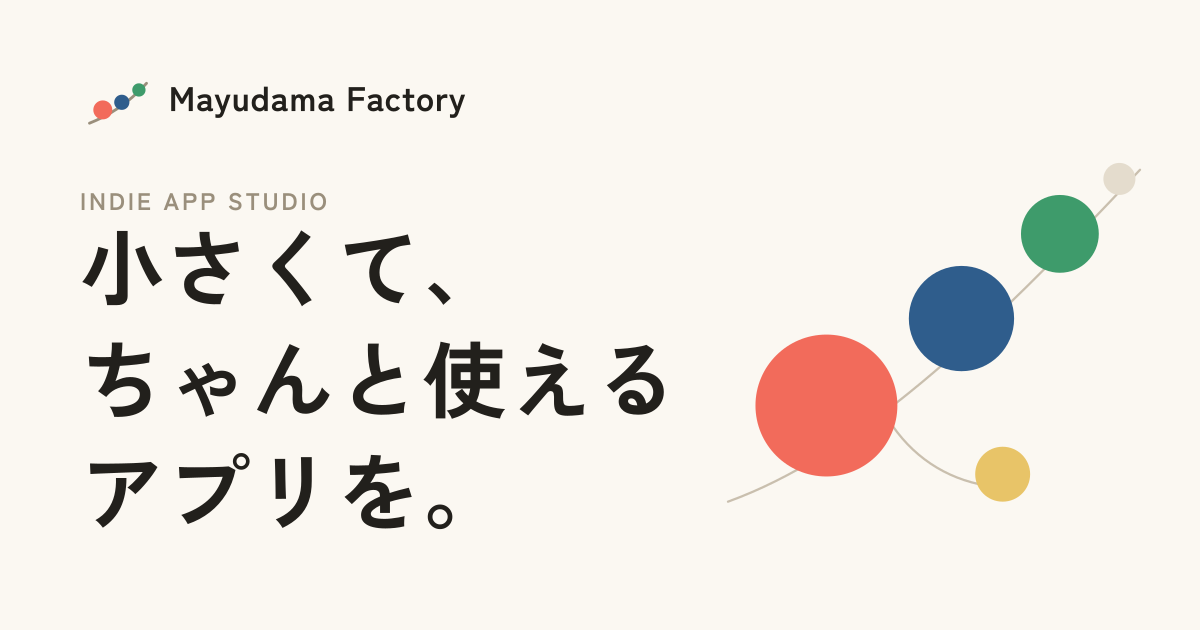
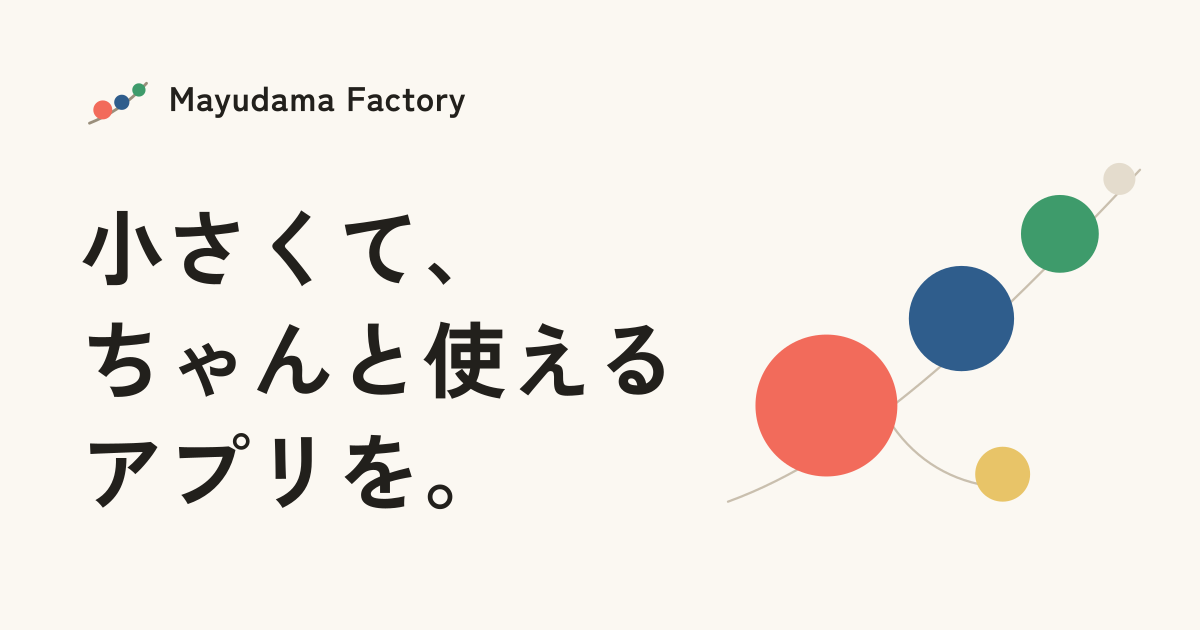
network-sim を 1.1.0 に更新、文章の直し、「個人」の表現を削除、スクリーンイメージに開発中の注記
Claude-Session: https://claude.ai/code/session_01BQHxvHdJABYARFyquyAsAX

Changed region(s): [[0.0617, 0.5127, 0.555, 0.6635], [0.0617, 0.3016, 0.37, 0.4825], [0.0617, 0.6937, 0.4008, 0.8444]]

diff --git a/network-sim/index.html b/network-sim/index.html
@@ -5,29 +5,29 @@
 <meta name="viewport" content="width=device-width, initial-scale=1">
 <meta name="google-adsense-account" content="ca-pub-1105812498519245">
 <title>ネットワーク構築シミュレータ - Cisco 風 CLI で学ぶ L2／L3 の演習ソフト</title>
-<meta name="description" content="新人が L2／L3 のネットワークを Cisco 風の CLI で設定して学ぶ、演習ソフトです。Windows・Mac 向け。インストール不要で、無償で使えます。">
+<meta name="description" content="L2／L3 のネットワークを Cisco 風の CLI で設定して学ぶ、演習ソフトです。Windows・Mac 向け。インストール不要で、無償で使えます。">
 <link rel="canonical" href="https://mayudama.app/network-sim/">
 <meta property="og:type" content="website">
 <meta property="og:site_name" content="Mayudama Factory">
 <meta property="og:locale" content="ja_JP">
 <meta property="og:title" content="ネットワーク構築シミュレータ - Cisco 風 CLI で学ぶ L2／L3 の演習ソフト">
-<meta property="og:description" content="新人が L2／L3 のネットワークを Cisco 風の CLI で設定して学ぶ、演習ソフト。Windows・Mac 向け。インストール不要・無償。">
+<meta property="og:description" content="L2／L3 のネットワークを Cisco 風の CLI で設定して学ぶ、演習ソフト。Windows・Mac 向け。インストール不要・無償。">
 <meta property="og:url" content="https://mayudama.app/network-sim/">
 <meta property="og:image" content="https://mayudama.app/brand/og/ogp-1200x630.png">
 <meta name="twitter:card" content="summary_large_image">
 <meta name="twitter:title" content="ネットワーク構築シミュレータ - Cisco 風 CLI で学ぶ L2／L3 の演習ソフト">
-<meta name="twitter:description" content="新人が L2／L3 のネットワークを Cisco 風の CLI で設定して学ぶ、演習ソフト。Windows・Mac 向け。インストール不要・無償。">
+<meta name="twitter:description" content="L2／L3 のネットワークを Cisco 風の CLI で設定して学ぶ、演習ソフト。Windows・Mac 向け。インストール不要・無償。">
 <meta name="twitter:image" content="https://mayudama.app/brand/og/ogp-1200x630.png">
 <!--
   差し替え手順
   - 画面写真：network-sim/assets/shot-2〜6.jpg（すべて 1600x1000。shot-1 は外した）。「スクリーンイメージ」の <figure>。押すと /assets/lightbox.js のポップアップで開く（data-lightbox を付けた要素の中の a が対象）。
     同じ名前で上書きするか、<img> の src・width・height・alt と <figcaption> を直す。画像を足したら <figure> を 1 つ足す（格子は 2 列・スマホ 1 列）。
     実際のアプリの画面だけを使う（実在しない CLI の出力・画面は載せない）。アイコンは network-sim/icon.png。
-  - 版の表記（版の番号・公開日）は、「ダウンロード」の id="release-info" の 1 か所だけ。新しい版を出したらここだけ直す。
-    ほかに版を書くのは「お知らせ」（その版の公開の記録）と「今後の予定」。お知らせは新しい版の分に差し替える。
+  - 版の表記（版の番号・公開日）は、「ダウンロード」の id="release-info" の 1 か所だけ。新しい版を出したらここを直す（zip の大きさの表記も合わせる）。
+    ほかに版を書くのは「お知らせ」（その版の公開の記録）だけ。お知らせは新しい版を先頭に書き、前の版は 1 行にして下に残す。
   - ダウンロードのリンクは版なしの固定 URL（releases/latest/download/…）のまま。書き換えない。
-  - 「学べること」はテーマの一覧で、課題の番号は書かない（版で番号が変わっても直さずに済む）。課題が増えたら本数とテーマを直す。
-  - 「今後の予定」には日付を書かない。
+  - 「学べること」はテーマの一覧で、課題の番号は書かない（版で番号が変わっても直さずに済む）。課題が増えたら本数（「できること」の課題モードと「学べること」の 2 か所）とテーマを直す。
+  - 「スクリーンイメージ」の見出しの下に、開発中の画面である旨の注記（class="fine"）を置く。画像を差し替えても残す。
 -->
 <link rel="preconnect" href="https://fonts.googleapis.com">
 <link rel="preconnect" href="https://fonts.gstatic.com" crossorigin>
@@ -50,7 +50,7 @@
     <div class="lp-hero-text">
       <img class="ns-icon" src="icon.png" width="64" height="64" alt="ネットワーク構築シミュレータのアイコン">
       <h1 class="tagline">ネットワーク構築<br>シミュレータ</h1>
-      <p class="lead">新人が L2／L3 のネットワークを、Cisco 風の CLI で「組む → 壊れる → 直す」をくり返して学ぶ演習ソフトです。無償で、インストール不要。Windows と Mac で使えます。</p>
+      <p class="lead">L2／L3 のネットワークを、Cisco 風の CLI で「組む → 壊れる → 直す」をくり返して学ぶ演習ソフトです。無償で、インストール不要。Windows と Mac で使えます。</p>
       <ul class="chips platforms" aria-label="対応している端末">
         <li class="chip">Windows</li>
         <li class="chip">Mac</li>
@@ -62,13 +62,18 @@
   <section id="news" class="band-white" aria-labelledby="news-title">
     <div class="wrap lp-section">
       <h2 id="news-title" class="section-title">お知らせ</h2>
-      <p class="body-text"><strong>1.0.0 を公開しました（2026-11-20）</strong>。最初の正式版です。</p>
+      <p class="body-text"><strong>1.1.0 を公開しました（2026-11-22）</strong>。</p>
       <ul class="spec-list">
-        <li>正式名を「ネットワーク構築シミュレータ」に決めました。</li>
-        <li>アプリのアイコンを新しくしました（端末の窓に「SW1#」とカーソル）。</li>
-        <li>画面のデザインを一新しました（機器管理コンソール風）。</li>
-        <li>同梱の README に「前の版から更新するとき」を加えました。</li>
+        <li>リンクの束ね（EtherChannel・LACP）に対応しました。</li>
+        <li>スイッチのスタック（2〜4 台を 1 台として扱う）に対応しました。</li>
+        <li>ルータで GRE トンネルと GRE over IPsec が使えるようになりました。</li>
+        <li>OSPF の SPF の間隔を、新しい Cisco IOS XE の既定にしました。回線が切れたあとの経路の切り替えが速くなります。</li>
+        <li>課題を 3 本（LACP・スタック・GRE）追加して全 20 本になりました。課題の番号を、一覧の並びどおりに付け直しました。</li>
+        <li>自由構成モード：保存は 20 件まで。読み込みの一覧から、名前の変更と削除ができます。「名前を付けて保存」と、閉じるときの未保存の確認を追加しました。</li>
+        <li>画面や操作の使い勝手を改善しました。</li>
+        <li>前の版の保存データと課題の記録は、そのまま使えます。</li>
       </ul>
+      <p class="body-text" style="margin-top:16px">1.0.0（2026-11-20）：最初の正式版</p>
     </div>
   </section>
 
@@ -77,11 +82,11 @@
     <div class="price-grid cols-2">
       <div class="price-card">
         <p class="label">課題モード</p>
-        <p>全 17 本の課題を順に解きます。流れは「組む → 採点 → 障害が起きる → 原因を調べて直す → 再採点」。ヒントは 3 段階で、見ないほど★が多くなります。課題ごとに、ひとりで読み進められる解説が付きます（別ウィンドウでも開けます）。</p>
+        <p>全 20 本の課題を順に解きます。流れは「組む → 採点 → 障害が起きる → 原因を調べて直す → 再採点」。ヒントは 3 段階で、見ないほど★が多くなります。課題ごとに、自分で読み進められる解説が付きます（別ウィンドウでも開けます）。</p>
       </div>
       <div class="price-card">
         <p class="label">自由構成モード</p>
-        <p>機器を自由に置いて、好きな構成を組めます（最大 50 台）。保存と読み込みができます。「届かない原因」を診断するヒント機能も付いています。</p>
+        <p>機器を自由に置いて、好きな構成を組めます（最大 50 台）。保存と読み込みができ、保存した構成は一覧から名前の変更や削除もできます。「届かない原因」を診断するヒント機能も付いています。</p>
       </div>
       <div class="price-card">
         <p class="label">本物らしい機器と CLI</p>
@@ -89,7 +94,7 @@
       </div>
       <div class="price-card">
         <p class="label">中が見える</p>
-        <p>パケットのステップ実行（ヘッダの変化と、機器ごとの判断）、アドレス一覧、キャプチャ。障害試験では、ケーブルを抜く・電源を落とすなどを当て、通信が止まった秒数と理由を測れます。画面はライト・ダーク・システムの設定に合わせます。</p>
+        <p>パケットのステップ実行（ヘッダの変化と、機器ごとの判断）、アドレス一覧、キャプチャ。障害試験では、ケーブルを抜く・電源を落とすなどを当て、通信が止まった秒数を測り、止まった理由を確かめられます。画面はライト・ダーク・システムの設定に合わせます。</p>
       </div>
     </div>
   </section>
@@ -97,6 +102,7 @@
   <section id="screens" class="band-white" aria-labelledby="screens-title">
     <div class="wrap lp-section">
       <h2 id="screens-title" class="section-title">スクリーンイメージ</h2>
+      <p class="fine">掲載している画面は開発中のものです。実際の画面とは異なることがあります。</p>
       <div class="shot-grid" data-lightbox>
         <figure class="shot-fig">
           <a href="assets/shot-2.jpg"><img src="assets/shot-2.jpg" width="1600" height="1000" loading="lazy" alt="最初の課題の画面。スイッチの CLI で show vlan を実行し、VLAN の一覧が表示されている"></a>
@@ -116,7 +122,7 @@
         </figure>
         <figure class="shot-fig">
           <a href="assets/shot-6.jpg"><img src="assets/shot-6.jpg" width="1600" height="1000" loading="lazy" alt="OSPF で拠点をつなぐ課題の画面。障害試験の結果が表示されている"></a>
-          <figcaption>OSPF の課題と障害試験。通信が止まった時間と理由を測ります。</figcaption>
+          <figcaption>OSPF の課題と障害試験。通信が止まった時間を測り、理由を確かめます。</figcaption>
         </figure>
       </div>
     </div>
@@ -124,7 +130,7 @@
 
   <section id="topics" class="wrap lp-section" aria-labelledby="topics-title">
     <h2 id="topics-title" class="section-title">学べること</h2>
-    <p class="body-text">全 17 本の課題で、次のテーマを順に学びます。</p>
+    <p class="body-text">全 20 本の課題で、次のテーマを順に学びます。</p>
     <ul class="chips topics" aria-label="学べるテーマ">
       <li class="chip">VLAN</li>
       <li class="chip">トランク</li>
@@ -139,6 +145,9 @@
       <li class="chip">BGP</li>
       <li class="chip">管理アクセス</li>
       <li class="chip">ゾーンベース FW</li>
+      <li class="chip">LACP</li>
+      <li class="chip">スタック</li>
+      <li class="chip">GRE・IPsec</li>
       <li class="chip">総仕上げ 2 本</li>
     </ul>
     <p class="body-text" style="margin-top:16px">総仕上げの 2 本は、要件定義書を読み、機器を足しながら 4 拠点のネットワークを一から作ります。</p>
@@ -163,7 +172,7 @@
   <section id="audience" class="wrap lp-section" aria-labelledby="audience-title">
     <h2 id="audience-title" class="section-title">対象の人</h2>
     <ul class="spec-list">
-      <li>ネットワークの仕事に就いたばかりの新人、L2／L3 を手を動かして学びたい人</li>
+      <li>L2／L3 を手を動かして学びたい人</li>
       <li>社内研修の教材として使いたい人（会社の研修での利用も無償です）</li>
     </ul>
   </section>
@@ -174,14 +183,14 @@
       <div class="dl-buttons">
         <div class="dl-item">
           <a class="btn" href="https://github.com/mayudama-factory/network-sim-dist/releases/latest/download/network-sim-windows.zip">Windows 版をダウンロード</a>
-          <p class="dl-size">約 14 MB</p>
+          <p class="dl-size">約 15 MB</p>
         </div>
         <div class="dl-item">
           <a class="btn" href="https://github.com/mayudama-factory/network-sim-dist/releases/latest/download/network-sim-macos.zip">Mac 版をダウンロード</a>
-          <p class="dl-size">約 22 MB</p>
+          <p class="dl-size">約 23 MB</p>
         </div>
       </div>
-      <p class="dl-note" id="release-info">版 1.0.0（2026-11-20 公開）</p>
+      <p class="dl-note" id="release-info">版 1.1.0（2026-11-22 公開）</p>
       <p class="dl-note"><a href="https://github.com/mayudama-factory/network-sim-dist/releases">リリース一覧</a></p>
     </div>
   </section>
@@ -211,18 +220,6 @@
         <li>Windows：記録のファイル（progress.json・layout.json・saves・course_saves）を新しいフォルダへコピーするか、前の版の上に上書きして展開します。詳しくは同梱の README.txt を見てください。</li>
       </ul>
     </div>
-  </section>
-
-  <section id="roadmap" class="wrap lp-section" aria-labelledby="roadmap-title">
-    <h2 id="roadmap-title" class="section-title">今後の予定</h2>
-    <p class="body-text">次の版（1.1.0）で、次の内容を予定しています。時期は未定です。</p>
-    <ul class="spec-list">
-      <li>LACP（EtherChannel）</li>
-      <li>スイッチのスタッキング</li>
-      <li>拠点間 VPN（GRE・GRE over IPsec）</li>
-      <li>OSPF の改良</li>
-      <li>使い勝手の改善</li>
-    </ul>
   </section>
 
   <section id="terms" class="wrap lp-section" aria-labelledby="terms-title">

diff --git a/index.html b/index.html
@@ -5,13 +5,13 @@
 <meta name="viewport" content="width=device-width, initial-scale=1">
 <meta name="google-adsense-account" content="ca-pub-1105812498519245">
 <title>Mayudama Factory</title>
-<meta name="description" content="Mayudama Factory（まゆだまファクトリー）は、個人で小さなアプリを作っている工房です。">
+<meta name="description" content="Mayudama Factory（まゆだまファクトリー）は、小さくて、ちゃんと使えるアプリを作っています。">
 <link rel="canonical" href="https://mayudama.app/">
 <meta property="og:type" content="website">
 <meta property="og:site_name" content="Mayudama Factory">
 <meta property="og:locale" content="ja_JP">
 <meta property="og:title" content="Mayudama Factory">
-<meta property="og:description" content="Mayudama Factory（まゆだまファクトリー）は、個人で小さなアプリを作っている工房です。">
+<meta property="og:description" content="Mayudama Factory（まゆだまファクトリー）は、小さくて、ちゃんと使えるアプリを作っています。">
 <meta property="og:url" content="https://mayudama.app/">
 <meta property="og:image" content="https://mayudama.app/brand/og/ogp-1200x630.png">
 <meta name="twitter:card" content="summary_large_image">
@@ -46,9 +46,9 @@
 <main>
   <section class="wrap hero">
     <div class="hero-text">
-      <p class="eyebrow">INDIE APP STUDIO</p>
+      <p class="eyebrow">APP STUDIO</p>
       <h1 class="display">小さくて、<br>ちゃんと使える<br>アプリを。</h1>
-      <p class="lead">Mayudama Factory（まゆだまファクトリー）は、個人で小さなアプリを作っている工房です。毎日の「ちょっと面倒」をひとつずつ減らす道具を、ていねいに作っています。</p>
+      <p class="lead">Mayudama Factory（まゆだまファクトリー）は、小さなアプリを作っている工房です。毎日の「ちょっと面倒」をひとつずつ減らす道具を、ていねいに作っています。</p>
       <div class="hero-actions">
         <a class="btn" href="#apps">アプリを見る<svg class="arrow" width="16" height="16" viewBox="0 0 16 16" fill="none" stroke="currentColor" stroke-width="1.6" stroke-linecap="round" stroke-linejoin="round" aria-hidden="true"><path d="M3 8h10M9 4l4 4-4 4"/></svg></a>
       </div>
@@ -103,7 +103,7 @@
         <a class="app-icon-link" href="network-sim/" tabindex="-1" aria-hidden="true"><img class="app-icon" src="network-sim/icon.png" width="72" height="72" alt=""></a>
         <div>
           <h3 class="title-keep">ネットワーク<wbr>構築<wbr>シミュレータ</h3>
-          <p class="desc">新人が L2／L3 のネットワークを、Cisco 風の CLI で組んで・壊して・直して学ぶ演習ソフト。</p>
+          <p class="desc">L2／L3 のネットワークを、Cisco 風の CLI で組んで・壊して・直して学ぶ演習ソフト。</p>
           <ul class="chips" aria-label="対応している端末">
             <li class="chip">Windows</li>
             <li class="chip">Mac</li>
@@ -122,7 +122,7 @@
     <div class="wrap about">
       <div class="about-text">
         <h2 id="about-title">工房について</h2>
-        <p>Mayudama Factory は、企画からデザイン、開発、サポートまでをひとりで手がける個人のアプリ工房です。</p>
+        <p>Mayudama Factory は、企画からデザイン、開発、サポートまでを手がけるアプリの工房です。</p>
       </div>
       <div class="contact-card">
         <h3>お問い合わせ</h3>
@@ -138,7 +138,7 @@
   <div class="wrap">
     <p class="footer-x">X: <a href="https://x.com/MayudamaFactory" rel="me noopener" target="_blank">@MayudamaFactory</a></p>
     <p>&copy; 2026 Mayudama Factory</p>
-    <p>個人で小さなアプリを作っている工房です。</p>
+    <p>小さなアプリを作っている工房です。</p>
   </div>
 </footer>
 
